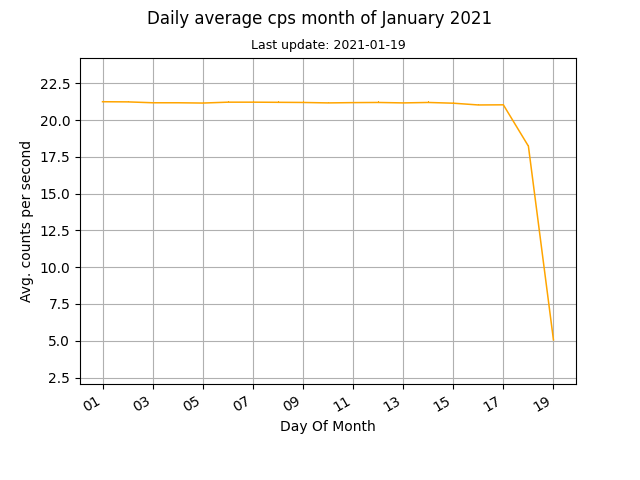
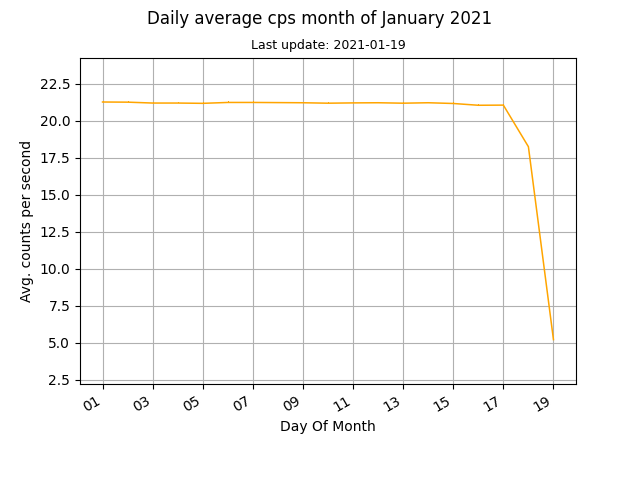
auto data update

diff --git a/docs/index.html b/docs/index.html
@@ -45,8 +45,8 @@
 	
 	<br>
 	
-	<p>Current counts per second (cps): 14.26</p>
-	<p>Last update: 2021-01-19, 15:25</p>
+	<p>Current counts per second (cps): 14.07</p>
+	<p>Last update: 2021-01-19, 15:40</p>
 
 	<p><a href="images/monthly.png"><img src="images/monthly.png" alt="Mothly avg cps data"></a><a href="images/daily.png"><img src="images/daily.png" alt="Daily avg cps data"></a></p>
 	
